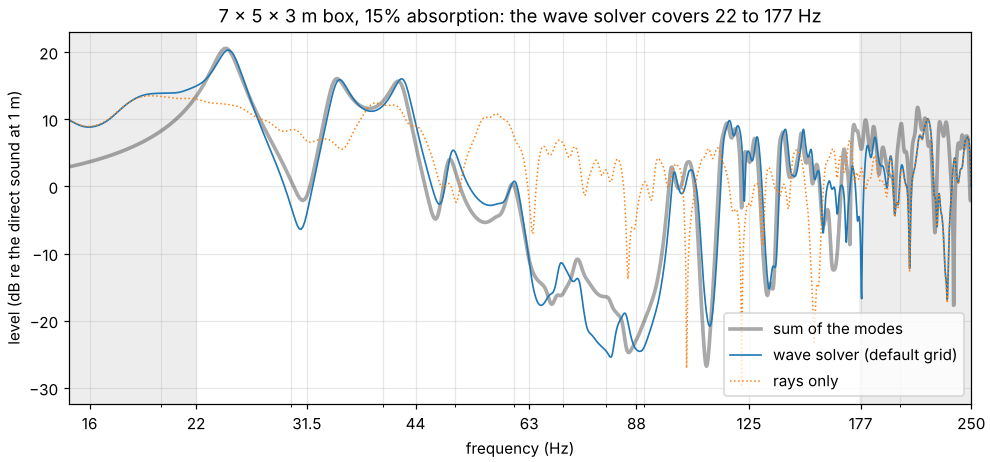
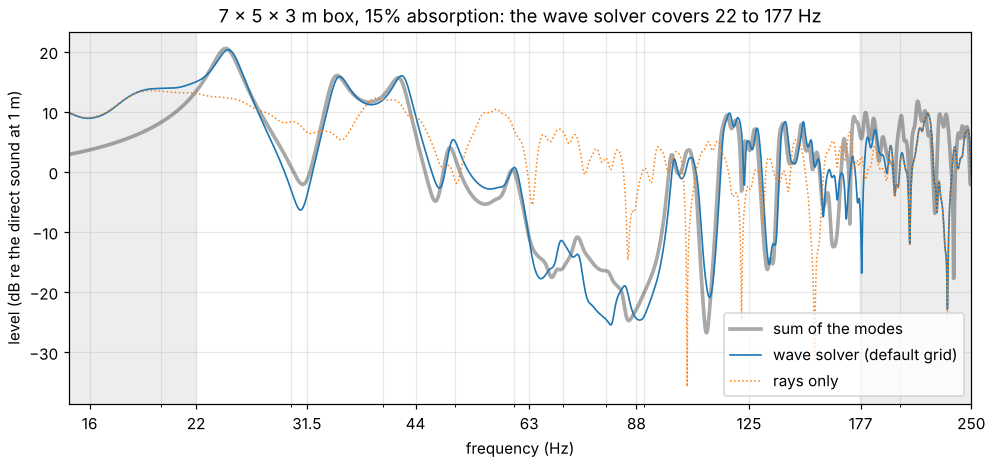
Docs: the wave solver's reading next to surfaces and near the source, measured again
The reading as it is: next to a floor, a wall or flat ground along the grid a
point leaves out the cells behind it and reads across it from the two cells
round it; next to other surfaces and within three cells of the source it reads
the eight cells round it. The near-source table has 1.5 and 2.5 cells and how
far the gradient's main axis lies off the line to the source; the steps where
the reading changes, the gradient between whole cells against the trilinear
reading and the levels close to walls are given as measured.

Corrected against their sources: the duct's late sound (its first cross mode),
what the open plate's fade removes (what the layer returns from 500 Hz to
1 kHz), the still air over grass (most of what the wave solver has over the
exact solution comes off the edges of the scene's ground), the plate's
figures before the layer's room, the moving air's and the whole room's.

Assisted-by: Claude Code

diff --git a/docs/validation.md b/docs/validation.md
@@ -226,9 +226,11 @@ request and checks:
   (within 0.01 of their absorption in every band, passive); the free-field level of the
   63 Hz band (within 0.5 dB of the rays 2.5 cells from the source and 0.1 dB from 5
   cells on), the source and the listeners read between the cells' centres (weights
-  that give a cubic's value exactly, on the point's own side of a wall, a screen and a
-  slot; the level of the direct sound 13 cells away within 0.06 dB wherever the two lie
-  within their cells; along a wall at 45 degrees, no step over 0.4 dB), the 19-point
+  that give a cubic's value exactly; next to a wall, a screen and a slot the cells on
+  the point's own side, linearly across the surface, none further than two cells from
+  the point; the level of the direct sound 13 cells away within 0.06 dB wherever the
+  two lie within their cells; along a wall at 45 degrees, no step over 0.4 dB; with a
+  wall behind a listener three cells from the source, none over 0.2 dB), the 19-point
   stencil's direct sound 12 cells along the cube's diagonal (within 0.05 dB of a point
   source's, also with a slower speed of sound, and 0.5 dB over it without the taps that
   undo the grid's own gain), the arrival time and direction of the direct
@@ -242,7 +244,10 @@ request and checks:
   field, within half a sample of its time), the source flat to the top of the highest
   band at 5 cells per wavelength (within 0.05 dB), the gradient's second-order and
   one-sided differences where a point two cells or one cell from the listener is
-  missing, and from the points two cells away where both next to it are (exactly), the
+  missing (exactly, along each axis), the points among the source's own cells left out
+  of a gradient on the 19-point grid (not round a listener among them, nor where a wall
+  leaves an axis no others; the gradient's main axis within 8 degrees of the line to
+  the source 0.6 and 2.2 cells from it), the
   gradient at a listener just in front of a thin screen and at
   one 1.5 cells in front of it, taken on the listeners' side, as in front of a solid
   block (within 1 dB and 0.5 dB), open models and thin screens (stable, and the sound
@@ -1133,7 +1138,9 @@ level at 63 and 125 Hz 0.04 to 2.0 dB below the rigid block's, and the engine is
 below. The wave solver there is within 0.09 dB of BTM over the rigid blocks and within
 0.07 dB of the exact solution over a plane absorbing 0.2 to 0.8 (with the engine's
 fitted admittance, source and listener 0.1 m high and 7 m apart), and with 6.2 cm cells
-the level over the 3 m top absorbing 0.8 moves by 0.03 and 0.04 dB.
+the level over the 3 m top absorbing 0.8 moves by 0.03 and 0.04 dB (all of these with
+the wave solver's trilinear reading; its cubic one moves the rigid 3 m block's level by
+0.03 dB at most).
 
 As the source rises through the plane of the 1 m block's top, 3 m in front of it, it
 comes into sight of the far corner, and the path over that corner alone takes over
@@ -2063,12 +2070,15 @@ the weather as it does: 2 dB louder downwind than in still air at 200 m and 1.5 
 more often than below. In still air, against the
 [exact solution](#ground-reflection-against-the-exact-solution) over grass, it is 0.06
 to 0.24 dB high at 63 Hz and 0.15 to 0.25 dB at 125 Hz, the parabolic equation within
-0.05 dB. In a one-off check of the 63 Hz band on a shorter ground (listeners to 100 m,
-40 m of it to either side), the sound's first 70 ms are 0.07 to 0.10 dB over the exact
-solution at 50 and at 100 m (0.05 to 0.07 dB with 16 points per wavelength), and the
-whole run 0.08 to 0.11 dB over it at 50 m and 0.20 to 0.23 dB at 100 m: most of what
-the farthest listeners have over it arrives later, off the ground's edges, which
-neither the exact solution nor the parabolic equation has. Upwind the wave solver reads
+0.05 dB. In a one-off check of the 63 Hz band, most of that was sound off the edges of
+the ground, which neither the exact solution nor the parabolic equation has. With
+listeners 50 and 100 m out and the ground 40 m to either side, 20 m behind the source
+and 30 m past the last listener (as in the scene), the wave solver is 0.09 to 0.23 dB
+over the exact solution; the sound off the far end, which follows the direct sound by
+175 ms at 100 m, is 0.12 to 0.16 dB of that there, and is gone with the ground 60 m
+longer. With every edge far enough for its sound to fall outside the response (80 m to
+either side, 60 m behind, 90 m past, the response cut 220 ms after the direct sound) it
+is 0.03 to 0.05 dB over the exact solution at both distances. Upwind the wave solver reads
 0.1 to 0.5 dB above the parabolic equation in both bands, which was not traced further.
 Neither the deep shadow upwind (it
 starts a few hundred metres away at these heights) nor reflections off buildings, where
@@ -2101,8 +2111,8 @@ exact change of its arrival and scaled by R / R*. Level and arrival over the arr
 | arrival, effective / moving (ms) | -0.03 / -0.07 | +0.03 / +0.09 | -0.15 / +0.00 | -0.03 / +0.00 |
 | waveform's error, effective / moving (dB) | -20.9 / -30.1 | -19.6 / -28.0 | -23.6 / -65.6 | -22.9 / -45.1 |
 
-Moving air is within 0.01 dB and 0.1 ms of the exact solution in every direction. The
-effective speed of sound gets the arrival about right but not the level, up to 0.8 dB
+Moving air is within 0.02 dB and 0.1 ms of the exact solution in every direction. The
+effective speed of sound gets the arrival about right but not the level, up to 0.84 dB
 off: a speed of sound that changes with the bearing is not a moving medium.
 
 **A façade downwind.** A rigid building 40 m downwind of the source, its façade across
@@ -4344,12 +4354,13 @@ reflection, which the grid returns whole at every frequency:
 (Each stencil has its own time step, so its own fit.) The wave solver matches the grid's
 theory (a plane wave on the grid, the wall half a cell past the last cell centres)
 within 0.0002 with either stencil, from 30 to 720 Hz, and the rigid end, which the grid
-returns whole, measures within 0.0002 of 1. (The windows that cut out the incident wave
-and end the runs fade over 20 ms: the source reaches up to waves near the most the grid
-carries, far above these frequencies and slow enough to be still passing where the
-windows fall, and an abrupt cut spreads them over every frequency.) The half cell
-between the last cell centres and the wall takes a little of the absorption away as the
-wavelength shortens: within 0.012 (7-point) and 0.009 (19-point) of the fitted
+returns whole, measures within 0.0002 of 1. (The source also excites the 20 cm duct's
+first cross mode, which rings on just above its cut-on, 1.59 kHz on the 7-point grid,
+for as long as a run lasts, and an abrupt cut spreads it over every frequency. So the
+runs' end fades over 20 ms, which brings the absorption that close, and so does the
+window that cuts out the incident wave, which brings the rigid end that close.) The
+half cell between the last cell centres and the wall takes a little of the absorption
+away as the wavelength shortens: within 0.013 (7-point) and 0.009 (19-point) of the fitted
 admittance's below 360 Hz, 0.025 and 0.023 less at 500 Hz with 14 cells per wavelength.
 The fit does not correct for it.
 
@@ -4359,8 +4370,10 @@ depth). A rigid 8 x 6 m plate in the open, the source 1.5 m above it, three list
 round it, 25 to 250 Hz (20 cm cells, the 7-point stencil, the only one with the
 matched layer), against a grid 16 m larger all round, from whose
 edge nothing comes back in the 90 ms of the runs: what differs, relative to the sound
-itself (the runs' last 10 ms fade out: above the bands a grid is run for, a layer
-returns far more, and an abrupt end spreads that over them),
+itself (the runs' last 10 ms fade out: between 500 Hz and 1 kHz, where a wavelength has
+fewer than four of these cells, the 8-cell layer returns sound only 15 to 30 dB below
+the sound there, in a one-off check, and an abrupt end spreads some of it over the bands
+compared),
 
 | boundary of the grid | listener 1 (dB) | listener 2 | listener 3 | air cells |
 |---|---:|---:|---:|---:|
@@ -4372,7 +4385,7 @@ returns far more, and an abrupt end spreads that over them),
 The edge alone absorbs only sound that meets it head-on; what a layer returns falls
 with its depth at every listener. Runs take 8 cells, which is not a setting. In the
 layer the sound keeps falling over 59,409 steps (20 s): 78 dB below the first second's
-level after one second, at least 135 dB below it through the second half.
+level after one second, at least 134 dB below it through the second half.
 
 Sound that runs along the layer meets it near grazing, where it sends much more back. In
 one-off checks over a rigid plate (open below), against the exact solution over a rigid
@@ -4388,11 +4401,11 @@ solution 20 to 160 m away, where three times the room moves them by 0.02 dB at m
 (to 80 m away; 160 m away that grid has more cells than a run takes), and within
 0.04 dB with the 5 cm cells. One case stays 0.07 and 0.15 dB off at 63 and
 125 Hz: the source and the listener 0.1 m up and 20 m apart with 10 cm cells, whose
-layer is 0.8 m deep; 25 % of room brings it within 0.01 dB. (Two checks made when the
-room lay on every side and the listeners were read trilinearly were not repeated:
-beside the plate's edge it brought the level at 125 Hz within 0.01 dB of a wider
-grid's, and over the rigid 3 m block of the edge diffraction checks, at 6.2 cm cells,
-to −9.00 and −11.21 dB against BTM's −9.04 and −11.25.)
+layer is 0.8 m deep; 25 % of room brings it within 0.01 dB. (In two more one-off
+checks, with the trilinear reading: beside the plate's edge the room brought the level
+at 125 Hz within 0.01 dB of a wider grid's, and over the rigid 3 m block of the edge
+diffraction checks, at 6.2 cm cells, to −9.00 and −11.21 dB against BTM's −9.04 and
+−11.25. The cubic reading moves that block's level by 0.03 dB at most.)
 It costs cells on each open side where the model reaches less far than that room: in
 these checks 1.5 and 2.0 times as many 20 and 40 m away at 20 cm cells and 2.2 and 3.5
 times 80 and 160 m away at 40 cm cells. A side that the model's own surfaces close
@@ -4433,20 +4446,24 @@ That is for one place of the source within its cell and one direction. The sourc
 each point a listener samples lie between the cells' centres and take four cells a side,
 weighted as a cubic through their centres (see
 [Simulation](simulation.md#low-frequencies-the-wave-solver)). Over 18 places of the
-source within a cell, with listeners along the grid's 26 axes and diagonals (in a rigid
-cube large enough for nothing to come back within the direct sound's first 50 ms),
-against the exact field of a point source with the same pulse: the pressure's energy,
-and the energy of the pressure's gradient (the first-order field's X, Y and Z) over the
-pressure's, each in dB over the exact one, from the least to the most:
+source within a cell, with listeners in 50 directions, the grid's 26 axes and diagonals
+and 24 others (in a rigid cube large enough for nothing to come back within the direct
+sound's first 50 ms), against the exact field of a point source with the same pulse:
+the pressure's energy, and the energy of the pressure's gradient (the first-order
+field's X, Y and Z) over the pressure's, each in dB over the exact one, from the least
+to the most; and how far the gradient's main axis lies off the line to the source at
+most, in the worse of the two bands:
 
-| cells from the source | 19-point: pressure, 63 Hz | 125 Hz | gradient over pressure, 63 Hz | 125 Hz | 7-point: pressure, 63 Hz | 125 Hz | gradient over pressure, 63 Hz | 125 Hz |
-|---:|---:|---:|---:|---:|---:|---:|---:|---:|
-| 1 | −1.76 to +2.86 | −1.79 to +2.64 | −7.30 to −0.01 | −6.49 to +0.16 | −1.62 to +2.38 | −1.49 to +2.35 | −5.87 to +3.86 | −5.53 to +3.57 |
-| 2 | −0.59 to +0.61 | −0.57 to +0.37 | −4.48 to +0.61 | −3.64 to +0.45 | −0.30 to +0.67 | −0.21 to +0.64 | −1.49 to +5.41 | −1.20 to +4.58 |
-| 3 | −0.13 to +0.31 | −0.03 to +0.05 | −0.29 to +0.95 | −0.47 to +0.50 | −0.06 to +0.32 | +0.18 to +0.26 | −1.68 to +0.74 | −0.99 to +0.42 |
-| 4 | −0.04 to +0.04 | −0.04 to +0.02 | −0.35 to +0.14 | −0.12 to +0.12 | −0.02 to +0.16 | +0.12 to +0.25 | −0.33 to +0.24 | −0.10 to +0.24 |
-| 8 | −0.00 to +0.00 | −0.02 to +0.01 | −0.01 to +0.01 | +0.01 to +0.02 | +0.03 to +0.04 | +0.02 to +0.32 | −0.04 to +0.05 | −0.03 to +0.09 |
-| 12 | −0.00 to +0.00 | −0.02 to +0.00 | +0.00 to +0.00 | +0.01 to +0.02 | +0.01 to +0.05 | −0.01 to +0.34 | −0.02 to +0.03 | −0.02 to +0.06 |
+| cells from the source | 19-point: pressure, 63 Hz | 125 Hz | gradient over pressure, 63 Hz | 125 Hz | off the line | 7-point: pressure, 63 Hz | 125 Hz | gradient over pressure, 63 Hz | 125 Hz | off the line |
+|---:|---:|---:|---:|---:|---:|---:|---:|---:|---:|---:|
+| 1 | −1.76 to +2.86 | −1.79 to +2.64 | −5.14 to +7.56 | −4.86 to +7.15 | 17.6° | −1.62 to +2.38 | −1.49 to +2.35 | −5.87 to +3.86 | −5.53 to +3.57 | 14.9° |
+| 1.5 | −1.36 to +1.53 | −1.19 to +1.17 | −6.29 to +0.69 | −5.12 to +0.88 | 15.6° | −0.88 to +1.68 | −0.70 to +1.60 | −0.96 to +6.18 | −0.88 to +5.53 | 21.2° |
+| 2 | −0.59 to +0.61 | −0.57 to +0.37 | −4.48 to +0.61 | −3.64 to +0.45 | 13.4° | −0.31 to +0.67 | −0.21 to +0.64 | −1.49 to +5.41 | −1.20 to +4.58 | 14.6° |
+| 2.5 | −0.44 to +0.42 | −0.38 to +0.10 | −0.80 to +3.66 | −0.66 to +2.64 | 9.8° | −0.20 to +0.83 | −0.11 to +0.58 | −3.41 to +2.23 | −2.10 to +1.78 | 5.3° |
+| 3 | −0.13 to +0.31 | −0.03 to +0.05 | −0.75 to +1.20 | −0.71 to +0.59 | 7.2° | −0.07 to +0.32 | +0.18 to +0.26 | −1.68 to +0.74 | −0.99 to +0.42 | 4.4° |
+| 4 | −0.04 to +0.04 | −0.04 to +0.02 | −0.43 to +0.27 | −0.15 to +0.18 | 2.3° | −0.02 to +0.16 | +0.12 to +0.25 | −0.33 to +0.24 | −0.10 to +0.24 | 1.5° |
+| 8 | −0.00 to +0.00 | −0.02 to +0.01 | −0.01 to +0.01 | +0.01 to +0.02 | 0.1° | +0.03 to +0.04 | +0.02 to +0.32 | −0.04 to +0.05 | −0.03 to +0.09 | 0.4° |
+| 12 | −0.00 to +0.00 | −0.02 to +0.00 | +0.00 to +0.00 | +0.01 to +0.02 | 0.1° | +0.01 to +0.05 | −0.01 to +0.34 | −0.02 to +0.03 | −0.02 to +0.06 | 0.4° |
 
 From four cells on the 19-point stencil's level is within 0.04 dB wherever the source
 and the listener lie within their cells and in every direction. A grid has a gain of its
@@ -4456,21 +4473,49 @@ the same in every direction within 0.01 dB over a band, 9 / (5 + 4 cos ωT) in p
 The 7-point stencil's changes with the direction, so no signal can: twelve cells away
 in the 125 Hz band it reads −0.01 to +0.01 dB along an axis, +0.25 dB along a face's
 diagonal and +0.32 to +0.34 dB along the cube's (the 19-point one −0.02 to +0.00 dB in
-all three). Within three cells of the source its sound on the grid is not a point's
-(there a listener takes two cells a side, which read it closer), and a listener's
-gradient, from points up to two cells from it, settles a cell further out; on the
-19-point grid it goes without a point nearer the source than 1.5 cells.
+all three).
 
-Next to a surface a point keeps to the cells on its own side: a box of fewer cells, or
-one that reaches further to the other side. Within a cell of a surface at an angle to
-the grid, where its cells among the eight round it are no box, it reads the cells it
-sees, weighted trilinearly (up to 0.7 dB low at 8 cells per wavelength, halfway between
-centres). Along a wall at 45 degrees, listeners 0.3 cells from it and 0.05 cells apart
-differ by 0.26 dB at most from one to the next, in the octave up to 8 cells per
-wavelength (0.24 dB read trilinearly everywhere). Between one and two cells from such a
-wall the boxes reach away from it along one axis or along two, and the level steps by up
-to 0.37 dB from one listener to the next (walls at 25 and 45 degrees, in one-off
-checks; 0.08 to 0.18 dB read trilinearly, which reads low everywhere instead).
+Within three cells of the source its sound on the grid is not a point's. There a
+listener's points take the eight cells round them, weighted trilinearly, which read the
+19-point grid's pressure and the 7-point grid's gradient closer than the cubic does
+(not the 7-point grid's pressure: 2.5 cells away it is up to 0.83 dB off, against
+0.35 dB with the cubic). Where the reading changes, three cells from the source, the
+level steps by up to 0.37 dB in the octave up to 8 cells per wavelength and 0.15 dB in
+the one below (40 directions, in a one-off check). A listener's
+gradient comes from points up to two cells from it and settles a cell further out. On
+the 19-point grid it goes without a point nearer the source than 1.5 cells, unless the
+listener lies that near itself: with those points its main axis is up to 26 and 21
+degrees off the line 1.5 and 2 cells away and its energy up to 13 dB off 2.5 cells
+away; on the 7-point grid leaving them out gains nothing clear, and it keeps them.
+From two cells away the gradient's energy is at some distances further off than with
+everything read trilinearly: 3.2 to 3.8 cells away on the 19-point grid (up to 1.4 dB
+against 0.8 dB) and 4.4 to 4.8 (0.41 against 0.29), and 2 to 3.8 cells away on the
+7-point one (5.4 dB against 3.8 dB at 2 cells, 3.3 against 1.6 at 2.6, 0.62 against
+0.45 at 3.8); elsewhere it is closer. Its main axis lies up to 3.4 degrees further off
+the line (12.2 against 8.8 degrees, 2.2 cells away on the 19-point grid; one-off scans
+every 0.2 cells from 2 to 5.6 along the grid's 26 directions, the worse of the two
+bands).
+
+Next to a surface along the grid (a floor, a wall, flat ground) a point leaves out the
+cells behind it: across the surface it reads the two cells round it, weighted linearly
+(within half a cell of the surface the one layer on its side), and along the surface
+still the cubic. A source and a listener 0.3 to 2.5 cells above a rigid plate and 20 m
+apart, with 20 cm cells, read the 125 Hz band within 0.02 dB of the exact solution
+wherever they lie within their cells (0.26 to 0.47 dB low read trilinearly, in one-off
+checks). Sound that arrives across such a surface is read linearly along its way: within
+1.5 cells of a wall along the grid, 8 cells from the source, the level in the octave up
+to 8 cells per wavelength is 0.14 to 0.39 dB low on the 19-point grid, and between
+0.42 dB low and 0.25 dB high on the 7-point one.
+
+Next to a surface at an angle to the grid, an edge or an opening, where the cells round
+a point are not all its own, it reads the cells it sees, weighted trilinearly (up to
+0.7 dB low at 8 cells per wavelength, halfway between two centres along an axis). Along
+such a wall, listeners 0.05 cells apart differ from one to the next, in the octave up to
+8 cells per wavelength, by up to 0.51 dB 0.3 cells from it (0.26 dB at 45 degrees) and
+1.2 dB 0.1 cells from it, as they do read trilinearly everywhere. Where the reading
+changes to the cubic, 1.5 to 2 cells from the wall, the level steps by up to 0.41 dB
+(0.12 dB read trilinearly everywhere, which reads low instead; walls at 3 to 45
+degrees, in one-off checks).
 
 **A whole room.** A 7 x 5 x 3 m box with 15 % absorption on every surface, simulated
 with the wave solver switched on at its default settings (the 63 and 125 Hz bands,
@@ -4860,8 +4905,8 @@ python validation/bras_room_energy.py --results bras.json   # what scattering do
 
 On 4 cores of a cloud machine without a GPU, each run alone on the machine (30 and 31
 October 2026), the cross-check takes about 10 minutes, the convolver benchmark half a
-minute, the wave solver's checks 1.2 minutes (both stencils), the edge diffraction's 40
-seconds, the fade at edges' 53 minutes, the walks' 14, the ground's 5.5 (51 s of them
+minute, the wave solver's checks 3.2 minutes (both stencils, 11 November), the edge
+diffraction's 40 seconds, the fade at edges' 53 minutes, the walks' 14, the ground's 5.5 (51 s of them
 the wave solver's, 100 s the parabolic equation's), the outdoor measurements' 3.1 (3.0
 with turbulence, 20 seconds in still air), the turbulence's 3.9 (3.8 with `--profile`),
 the vegetation's 5.2, the leaves' 2.6, the wave solver's outdoors 12.6 and the moving

diff --git a/CHANGELOG.md b/CHANGELOG.md
@@ -195,25 +195,28 @@
   itself keeps the level it had.
 - Fixed (results change): round an open model the wave solver's matched layer lay a few
   cells past the model, the source and the listeners and sent back much of the sound
-  that ran along it: over a rigid plate, with 40 cm cells, the 63 Hz band read 2.8 and
-  9.6 dB below the exact solution 80 and 160 m away. The grid now reaches past the
+  that ran along it: over a rigid plate, with 40 cm cells, the 63 Hz band read 3.1 and
+  9.8 dB below the exact solution 80 and 160 m away. The grid now reaches past the
   source and the listeners on each side (not under an outdoor ground) by 15 % of how far
   the listeners lie from the source along that side, which brings those checks within
   0.03 dB of it and costs cells wherever an open side of the model reaches less far
   (1.13 times as many on validation/wave_outdoor.py's 63 Hz grids); a side that the
   model's own surfaces close gets none.
 - Fixed (results change): the wave solver took its source and each point a listener
-  samples from the eight cells round them, weighted trilinearly, which moved the 63 and
-  125 Hz bands by up to 0.5 dB with their place within a cell (8 points per wavelength).
-  They now take a cubic through four cells a side, within 0.02 dB of a point source's
-  level from eight cells on in closed rooms, where the source's signal also undoes the
-  19-point grid's own gain on a point source (0.06 and 0.35 dB in the two bands), which
-  that loss had hidden.
+  samples from the eight cells round them, weighted trilinearly, which read the 125 Hz
+  band up to 0.53 dB low by their place within a cell (8 points per wavelength at the
+  band's top). They now take a cubic through four cells a side (along a floor, a wall or
+  flat ground, across it the two cells round them; next to other surfaces and within
+  three cells of the source the eight cells as before), within 0.02 dB of a point
+  source's level from eight cells on in closed rooms, where the source's signal also
+  undoes the 19-point grid's own gain on a point source (0.06 and 0.35 dB in the two
+  bands), which that loss had hidden.
 - Changed: `validation/wave_solver.py` fades the cuts of its duct and open-model checks,
-  which an abrupt cut had filled with the grid's slowest waves from far above the bands
-  they look at: the duct's absorption is within 0.0002 of the grid's theory (it showed
-  0.005 to 0.007), and the default matched layer returns 72 to 74 dB less than the sound
-  (67 to 74).
+  which an abrupt cut had filled with sound from far above the bands they look at (in
+  the duct, its first cross mode): the duct's absorption is within 0.0002 of the grid's
+  theory (it showed 0.005 to 0.007), and the default matched layer returns 72 to 74 dB
+  less than the sound (67 to 74). Its near-source table takes 50 directions and gives
+  the gradient's direction.
 - Changed: CI runs again by itself, up to twice, the jobs of a run that failed only
   because GitHub lost their runner or a step that fetches system packages failed
   (`.github/workflows/rerun.yml`, `tools/ci_rerun.py`). A pull request runs one job on

diff --git a/docs/simulation.md b/docs/simulation.md
@@ -585,14 +585,17 @@ simulation:
   in Ambisonics, binaural and loudspeaker outputs (to first order). The source and each
   point a listener samples lie between the grid's cell centres (a cell is 0.2 m on the
   grid up to the 125 Hz band) and take four cells a side, weighted as a cubic through
-  their centres, on their own side of any surface; within a cell of a surface at an
-  angle to the grid, the eight cells round the point that it sees, weighted
-  trilinearly. From four cells from the source on, the level does not depend on where
-  the two lie within their cells (within 0.04 dB with the 19-point stencil). Nearer the
-  source its sound on the grid is not a point's: the pressure is up to 2.9, 0.7 and 0.3
-  dB off a point source's one, two and three cells away, and the gradient's ratio to it
-  up to 7.3, 5.4, 1.7 and 0.35 dB off one to four cells away (each stencil's figures,
-  and the 7-point one's own gain along the grid's diagonals, under Free field in
+  their centres. Next to a floor, a wall or flat ground along the grid they leave out
+  the cells behind it and read across it from the two cells round the point; next to a
+  surface at an angle to the grid, an edge or an opening, and for a listener's points
+  nearer the source than three cells, they take the eight cells round the point that
+  it sees, weighted trilinearly. From four cells from the source on, the level does
+  not depend on where the two lie within their cells (within 0.04 dB with the 19-point
+  stencil). Nearer the source its sound on the grid is not a point's: the pressure is
+  up to 2.9, 0.7 and 0.32 dB off a point source's one, two and three cells away, and
+  the gradient's ratio to it up to 7.6, 5.4, 1.7 and 0.43 dB off, its direction up to
+  18, 15, 8 and 3 degrees, one to four cells away (each stencil's figures, and the
+  7-point one's own gain along the grid's diagonals, under Free field in
   [Validation](validation.md#wave-based-solver)).
 - The result replaces the rays from 22 Hz up to the top of the highest wave band (177
   Hz for 125), through the same crossovers the impulse response synthesis uses. The
@@ -622,7 +625,7 @@ long as the CPU solver in a whole run with an earlier version of the script (the
 
 In a 7 x 5 x 3 m box with 15 % absorption, the wave solver follows the sum of the box's
 modes from 22 Hz up; rays give the average level instead. In the 63 and 125 Hz bands,
-G is within 1 dB of the modes and T20 within 5 %; rays are up to 5.3 dB and 12 % off.
+G is within 1 dB of the modes and T20 within 5 %; rays are up to 5.2 dB and 13 % off.
 
 What it leaves out: surfaces react locally, so their absorption changes with the angle
 only as an impedance's does, and absorb at most 95 % at random incidence; next to a

diff --git a/docs/outdoor.md b/docs/outdoor.md
@@ -661,8 +661,8 @@ is an arc of a circle, so its travel time and its length are exact.
   editor's Simulation page) the air moves instead: each cell keeps the still air's
   speed of sound, and the wind carries the sound along with it, so that sound goes at
   c + v downwind and c − v upwind, whichever way it turned. In a uniform wind of 15
-  m/s it is within 0.01 dB and 0.1 ms of the exact solution in every direction, where
-  the effective speed of sound is up to 0.8 dB off; the echo of a façade 40 m
+  m/s it is within 0.02 dB and 0.1 ms of the exact solution in every direction, where
+  the effective speed of sound is up to 0.84 dB off; the echo of a façade 40 m
   downwind comes within 0.02 ms of ray theory's, where the effective speed of sound
   brings it 10.6 ms early; in the `windy` preset over grass both are within 0.55 dB of
   the parabolic equation, 0.2 dB on average (see

diff --git a/docs/roadmap.md b/docs/roadmap.md
@@ -300,8 +300,9 @@ Outdoor acoustics, in steps:
   one end 1.8 to 2.0 times the cells (see Open models under
   [Wave-based solver](validation.md#wave-based-solver)).
 - [x] The wave solver's source and listeners read between the cell centres to a
-  higher order: a cubic through four cells a side, where two a side cost up to 0.5 dB
-  with their place within a cell at 8 points per wavelength (see Free field under
+  higher order: a cubic through four cells a side, where two a side read the 125 Hz
+  band up to 0.53 dB low by their place within a cell (8 points per wavelength at the
+  band's top; see Free field under
   [Wave-based solver](validation.md#wave-based-solver)).
 - [x] O19 Whole cities: edge diffraction skips the pairs of an edge and a wall or roof
   that no path can use before it traces a ray, on every core, with the same results:
